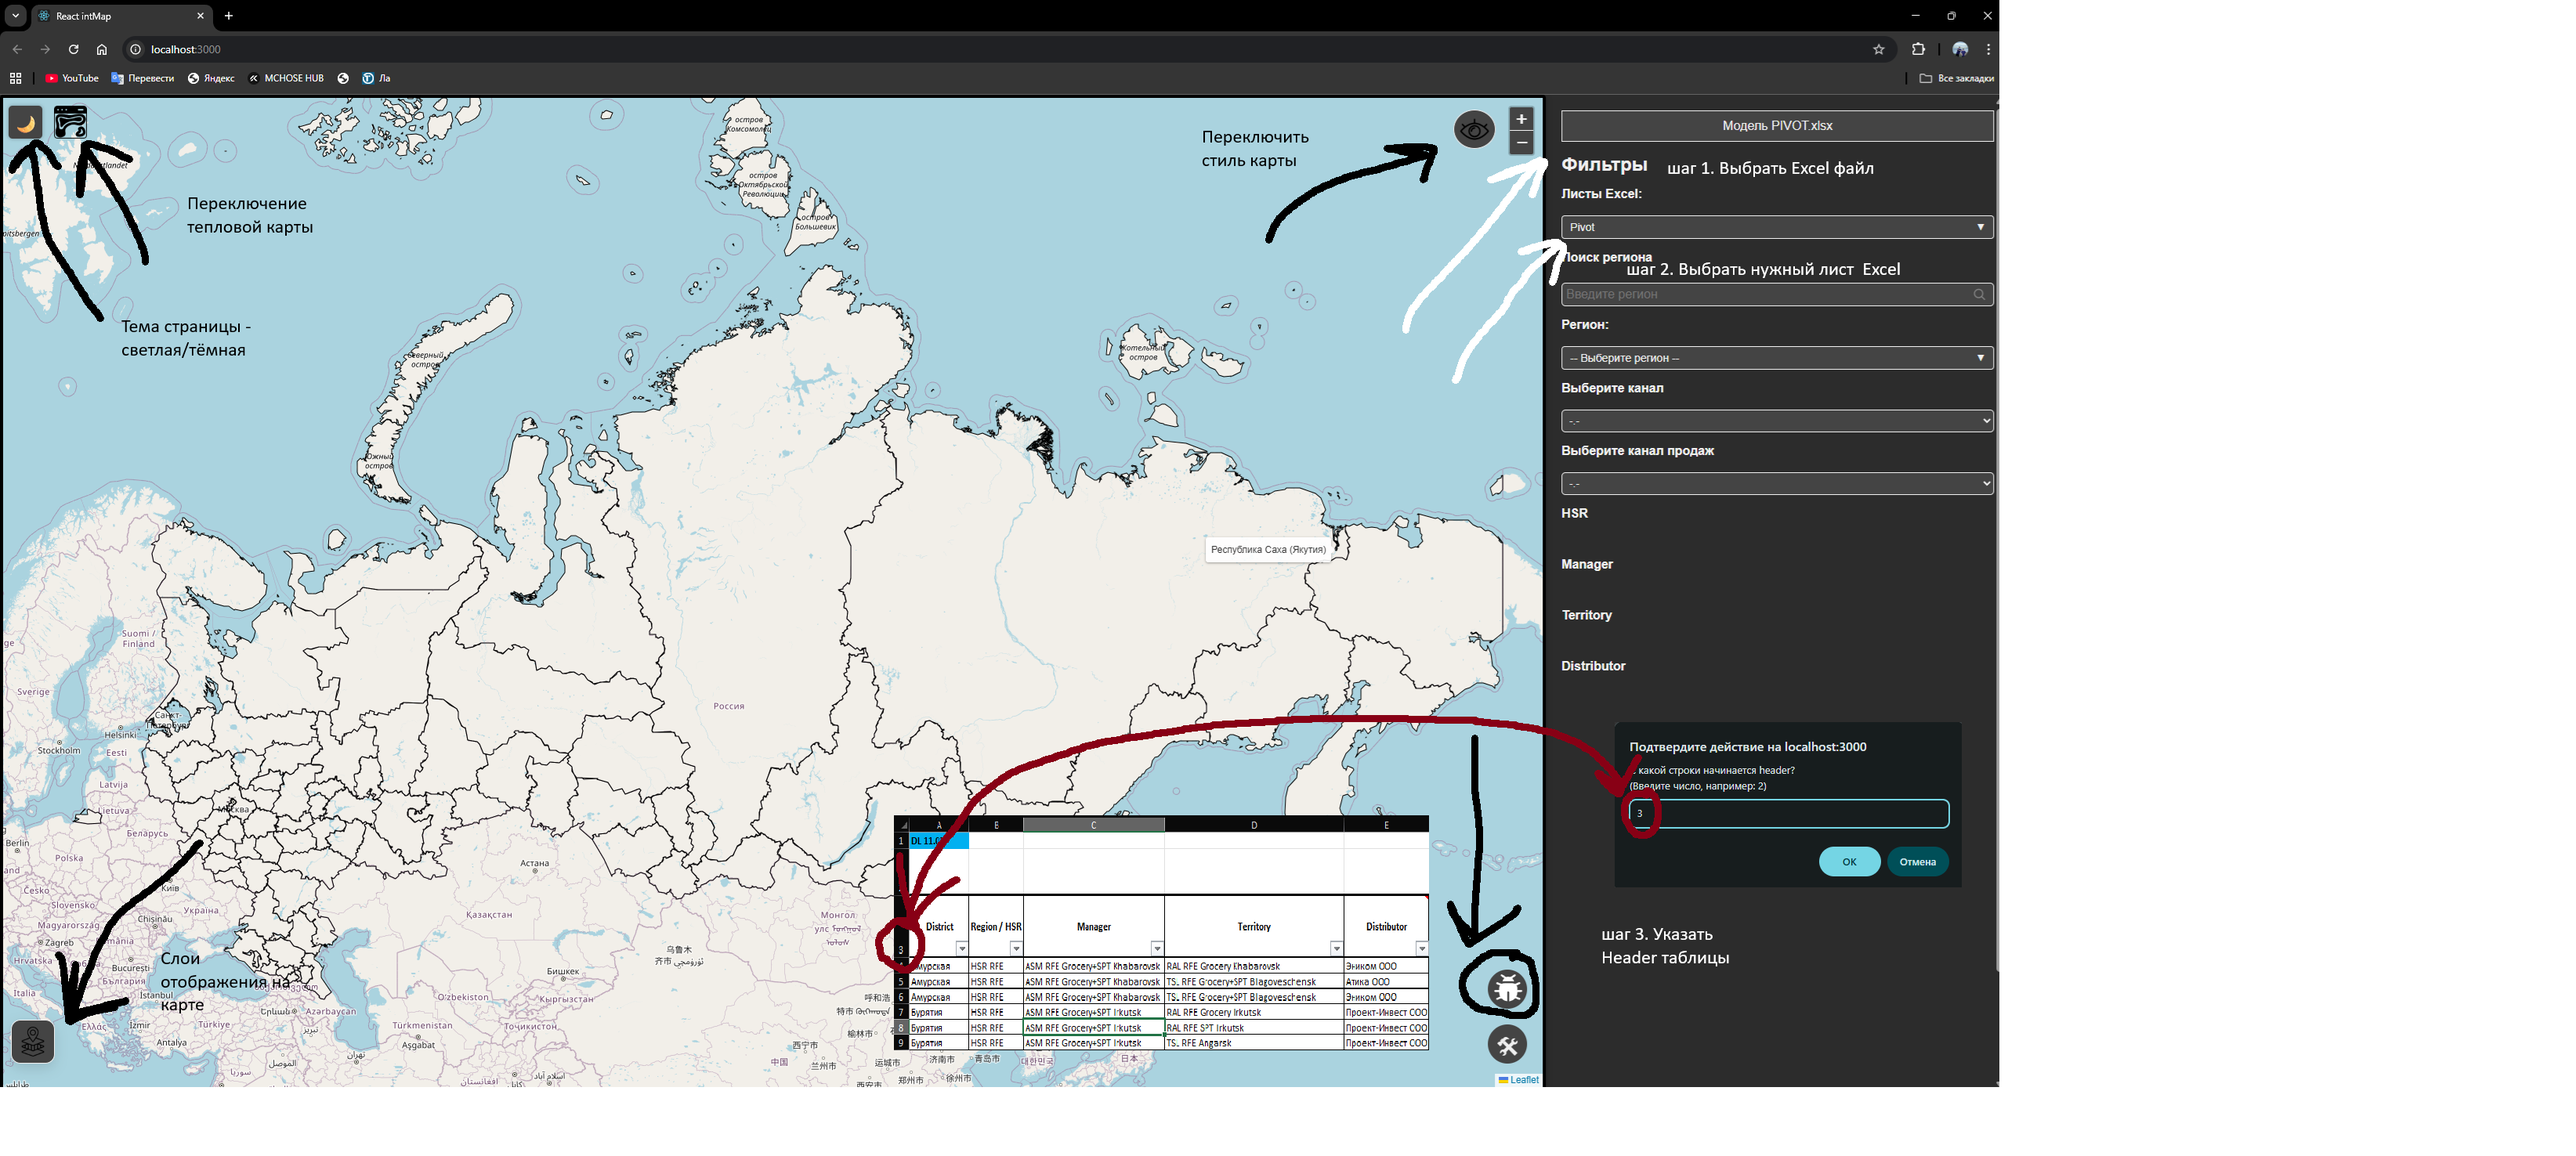
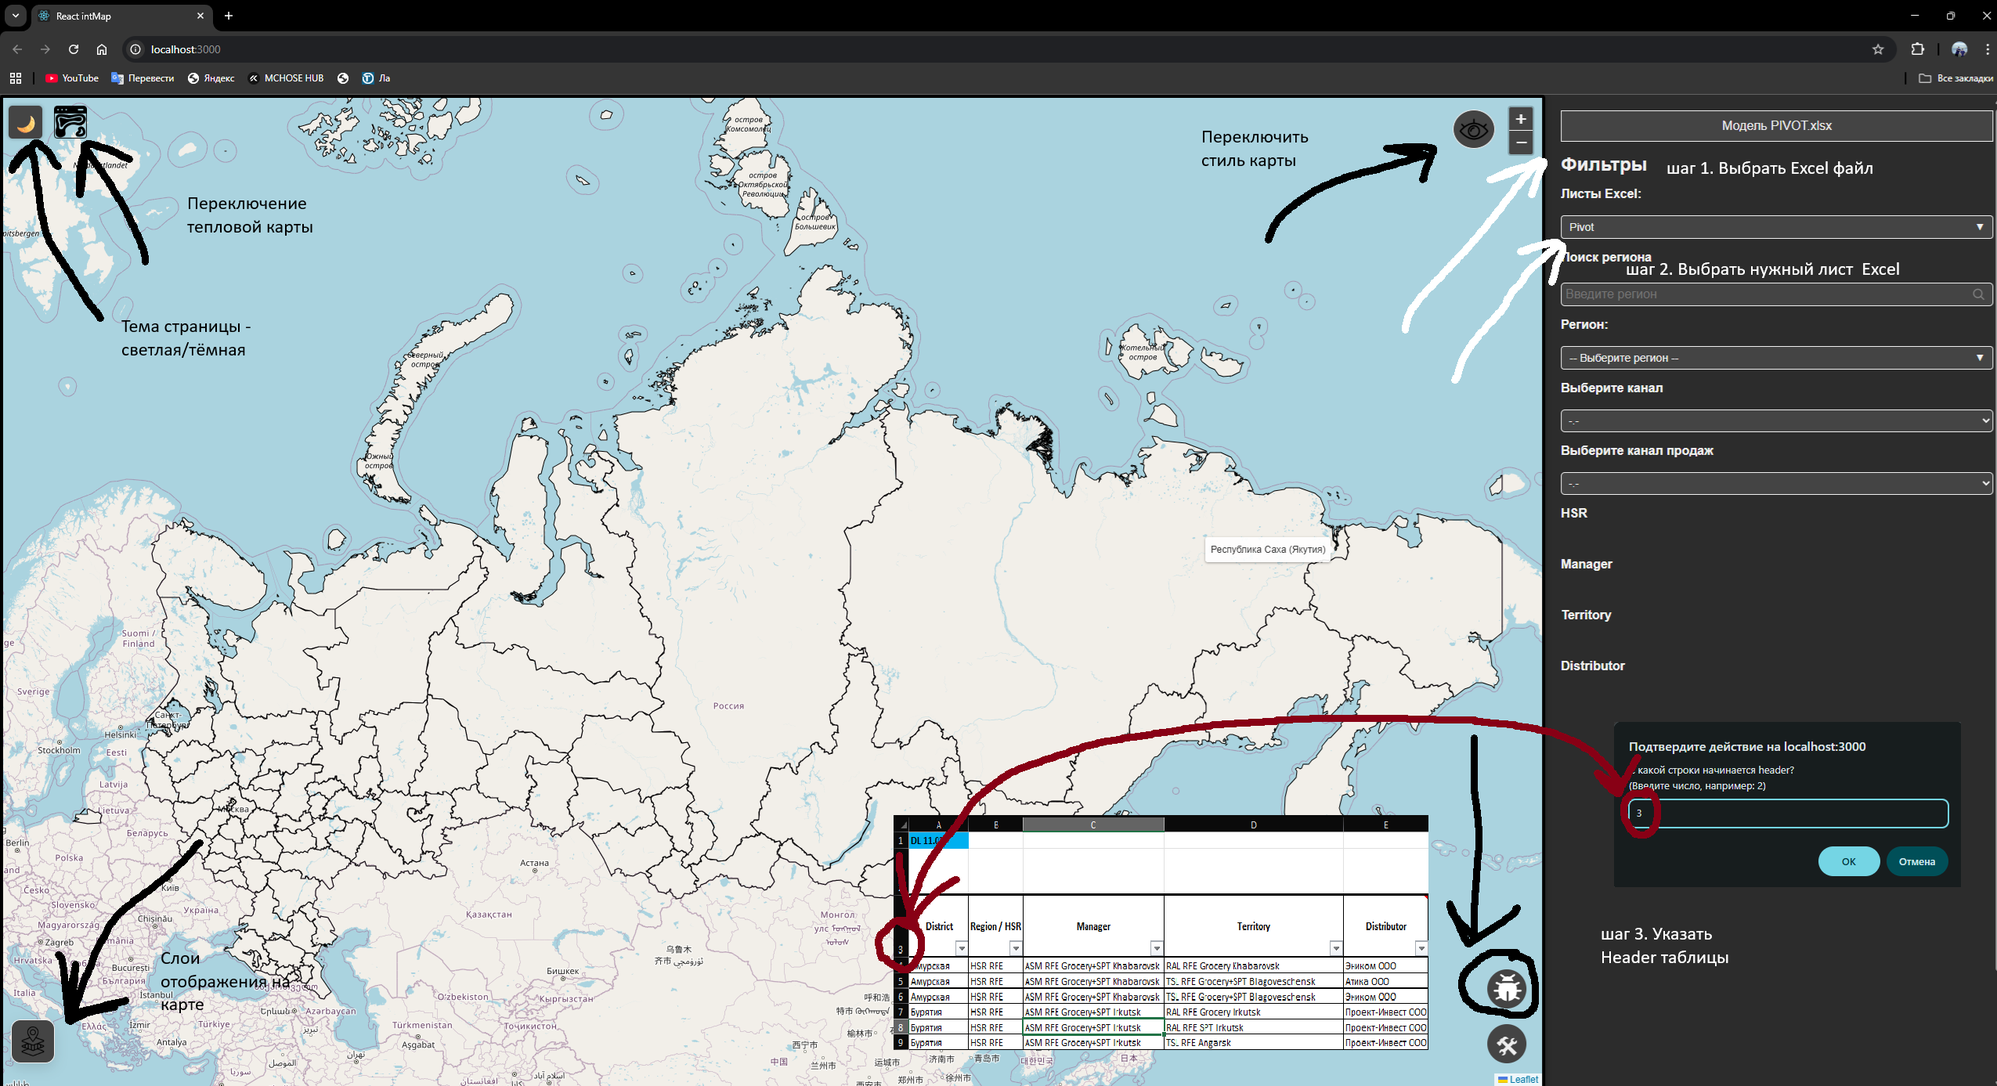
add edu styles

diff --git a/src/components/Edu/Edu.css b/src/components/Edu/Edu.css
@@ -1,0 +1,11 @@
+.edu__container {
+    display: flex;
+    justify-content: center;
+    align-items: center;
+}
+
+.edu__image {
+    width: 100%;
+    height: 100%;
+    object-fit: contain;
+}

diff --git a/src/components/Edu/Edu.jsx b/src/components/Edu/Edu.jsx
@@ -1,4 +1,5 @@
 import eduImage from '../../images/./pictures/edu.png';
+import './Edu.css';
 
 export default function Edu({ onClose }) {
     const handleClick = () => {
